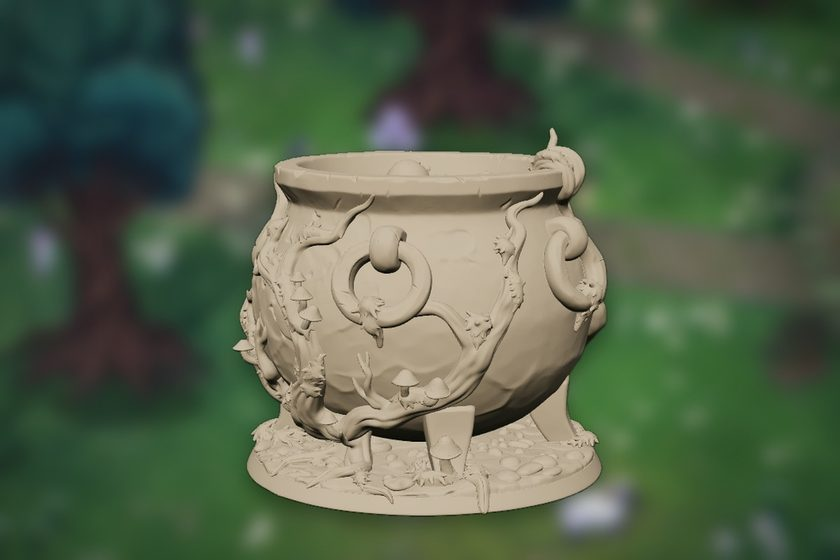
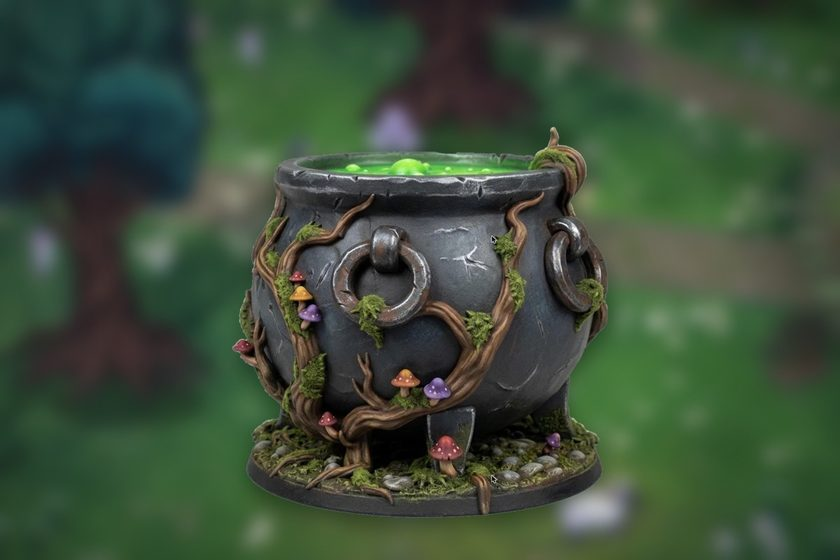
Website rewards: coloured figure previews, new share image
Claude-Session: https://claude.ai/code/session_01AArtScbe1ghbi6ZR5v9YUP

Changed region(s): [[0.2786, 0.2125, 0.7429, 0.9411]]

diff --git a/index.html b/index.html
@@ -875,7 +875,7 @@
         </div>
       </a>
     </div>
-    <p class="reward-fine">Pictures show the plain models before colour; the finished pieces are printed in colour and may look a little different. Prices are in euros and match the Kickstarter page. Postage is added at checkout. The Lich King is from the full game, not the demo.</p>
+    <p class="reward-fine">Pictures are coloured previews of our models; the finished pieces are printed in colour filament and may look a little different. Prices are in euros and match the Kickstarter page. Postage is added at checkout. The Lich King is from the full game, not the demo.</p>
   </section>
 
   <!-- Roadmap Section -->
